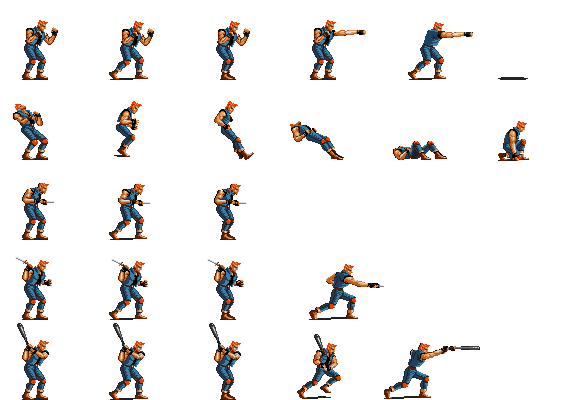
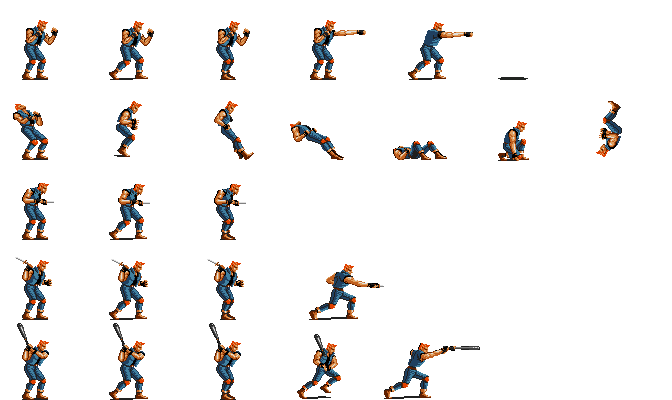
Added thrown and knocked animations to entities

diff --git a/EnemyGarcia.cpp b/EnemyGarcia.cpp
@@ -71,7 +71,6 @@ bool EnemyGarcia::LoadFromConfigFile(const char* file_path)
 {
 	JSON_Value *root_value;
 	JSON_Object *root_object;
-	JSON_Array *j_array;
 
 	root_value = json_parse_file(file_path);
 	if (root_value == nullptr)
@@ -94,20 +93,8 @@ bool EnemyGarcia::LoadFromConfigFile(const char* file_path)
 	score = (int)json_object_dotget_number(root_object, "garcia.score");
 
 //----------------------- colliders ---------------------------
-	j_array = json_object_dotget_array(root_object, "garcia.colliders.hit");
-	hit_collider_offset = { (int)json_array_get_number(j_array, 0), (int)json_array_get_number(j_array, 1) };
-	hit_collider = App->collision->AddCollider(
-	{ hit_collider_offset.x + position.x, hit_collider_offset.y + position.y, (int)json_array_get_number(j_array, 2) , (int)json_array_get_number(j_array, 3) },
-		colliderType::ENEMY, *this);
-
-	json_array_clear(j_array);
-
-	j_array = json_object_dotget_array(root_object, "garcia.colliders.attack");
-	attack_collider_offset = { (int)json_array_get_number(j_array, 0), (int)json_array_get_number(j_array, 1) };
-	attack_collider = App->collision->AddCollider(
-	{ attack_collider_offset.x + position.x, attack_collider_offset.y + position.y, (int)json_array_get_number(j_array, 2) , (int)json_array_get_number(j_array, 3) },
-		colliderType::ENEMY_ATTACK, *this);
-	json_array_clear(j_array);
+	hit_collider = LoadColliderFromJSONObject(root_object, "garcia.colliders.hit", colliderType::ENEMY, &hit_collider_offset);
+	attack_collider = LoadColliderFromJSONObject(root_object, "garcia.colliders.attack", colliderType::ENEMY_ATTACK, &attack_collider_offset);
 
 //----------------------- duration ---------------------------
 	attacks_duration = (int)json_object_dotget_number(root_object, "garcia.duration.attacks");
@@ -119,25 +106,27 @@ bool EnemyGarcia::LoadFromConfigFile(const char* file_path)
 
 	
 //----------------------- sprites ---------------------------
-	j_array = json_object_dotget_array(root_object, "garcia.sprite_offset");
-	sprite_offset.x = (int)json_array_get_number(j_array, 0);
-	sprite_offset.y = (int)json_array_get_number(j_array, 1);
-	json_array_clear(j_array);
+	LoadiPointFromJSONObject(root_object, "garcia.sprite_offset", &sprite_offset);
+	LoadiPointFromJSONObject(root_object, "garcia.sprite_offset_flip", &sprite_offset_flip);
 
-	j_array = json_object_dotget_array(root_object, "garcia.sprite_offset_flip");
-	sprite_offset_flip.x = (int)json_array_get_number(j_array, 0);
-	sprite_offset_flip.y = (int)json_array_get_number(j_array, 1);
-	json_array_clear(j_array);
-
-
+//----------------------- animations ---------------------------
 	LoadAnimationFromJSONObject(root_object, "garcia.idle", &idle);
 	LoadAnimationFromJSONObject(root_object, "garcia.walk", &walk);
 	LoadAnimationFromJSONObject(root_object, "garcia.attack1", &attack1);
-	LoadAnimationFromJSONObject(root_object, "garcia.attack3", &attack3);
+	LoadAnimationFromJSONObject(root_object, "garcia.attack2", &attack2);
 	LoadAnimationFromJSONObject(root_object, "garcia.being_hit", &being_hit);
 	LoadAnimationFromJSONObject(root_object, "garcia.being_hold_front", &being_hold_front);
 	LoadAnimationFromJSONObject(root_object, "garcia.being_hold_front_hit", &being_hold_front_hit);
 	LoadAnimationFromJSONObject(root_object, "garcia.being_hold_back", &being_hold_back);
+	LoadAnimationFromJSONObject(root_object, "garcia.being_knocked", &being_knocked);
+	LoadAnimationFromJSONObject(root_object, "garcia.being_thrown", &being_thrown);
+	LoadAnimationFromJSONObject(root_object, "garcia.standing_up", &standing_up);
+	LoadAnimationFromJSONObject(root_object, "garcia.dying", &dying);
+	LoadSDLRectFromJSONObject(root_object, "garcia.shadow", &shadow);
+
+//----------------------- sounds ---------------------------
+	LoadSoundFXFromJSONObject(root_object, "fx.death_voice", &fx_death);
+	LoadSoundFXFromJSONObject(root_object, "fx.attack_hit", &fx_attack_hit);
 
 	//--- free json 
 	json_value_free(root_value);

diff --git a/Player.cpp b/Player.cpp
@@ -399,7 +399,6 @@ bool Player::LoadFromConfigFile(const char* file_path)
 {
 	JSON_Value *root_value;
 	JSON_Object *root_object;
-	JSON_Array *j_array;
 
 	root_value = json_parse_file(file_path);
 	if (root_value == nullptr)
@@ -461,12 +460,18 @@ bool Player::LoadFromConfigFile(const char* file_path)
 	LoadAnimationFromJSONObject(root_object, "player.attack2", &attack2);
 	LoadAnimationFromJSONObject(root_object, "player.attack3", &attack3);
 	LoadAnimationFromJSONObject(root_object, "player.attack_back", &attack_back);
-	LoadAnimationFromJSONObject(root_object, "player.being_hit", &being_hit);
 	LoadAnimationFromJSONObject(root_object, "player.holding_front", &holding_front);
 	LoadAnimationFromJSONObject(root_object, "player.holding_front_attack", &holding_front_attack);
 	LoadAnimationFromJSONObject(root_object, "player.holding_front_attack2", &holding_front_attack2);
 	LoadAnimationFromJSONObject(root_object, "player.holding_back", &holding_back);
 	LoadAnimationFromJSONObject(root_object, "player.holding_swap", &holding_swap);
+	LoadAnimationFromJSONObject(root_object, "player.take_item", &take_item);
+	LoadAnimationFromJSONObject(root_object, "player.being_hit", &being_hit);
+	LoadAnimationFromJSONObject(root_object, "player.being_knocked", &being_knocked);
+	LoadAnimationFromJSONObject(root_object, "player.being_thrown", &being_thrown);
+	LoadAnimationFromJSONObject(root_object, "player.standing_up", &standing_up);
+	LoadAnimationFromJSONObject(root_object, "player.dying", &dying);
+
 	LoadSDLRectFromJSONObject(root_object, "player.shadow", &shadow);
 
 // ---------------------- sound effects ----------------------------

diff --git a/ModuleCollision.cpp b/ModuleCollision.cpp
@@ -69,8 +69,10 @@ void ModuleCollision::DebugDraw()
 			App->renderer->DrawQuad((*it)->rect, 0, 255, 0, 80);
 		else if ((*it)->type == colliderType::ENEMY)
 			App->renderer->DrawQuad((*it)->rect, 255, 255, 0, 80);
-		else
+		else if ((*it)->type == colliderType::ENEMY_ATTACK)
 			App->renderer->DrawQuad((*it)->rect, 255, 0, 0, 80);
+		else
+			App->renderer->DrawQuad((*it)->rect, 255, 0, 255, 80);
 	}
 }
 

diff --git a/Entity.h b/Entity.h
@@ -173,6 +173,8 @@ protected:
 	Animation being_knocked;
 	Animation standing_up;
 
+	Animation dying;
+
 	SDL_Rect shadow;
 
 // sounds
